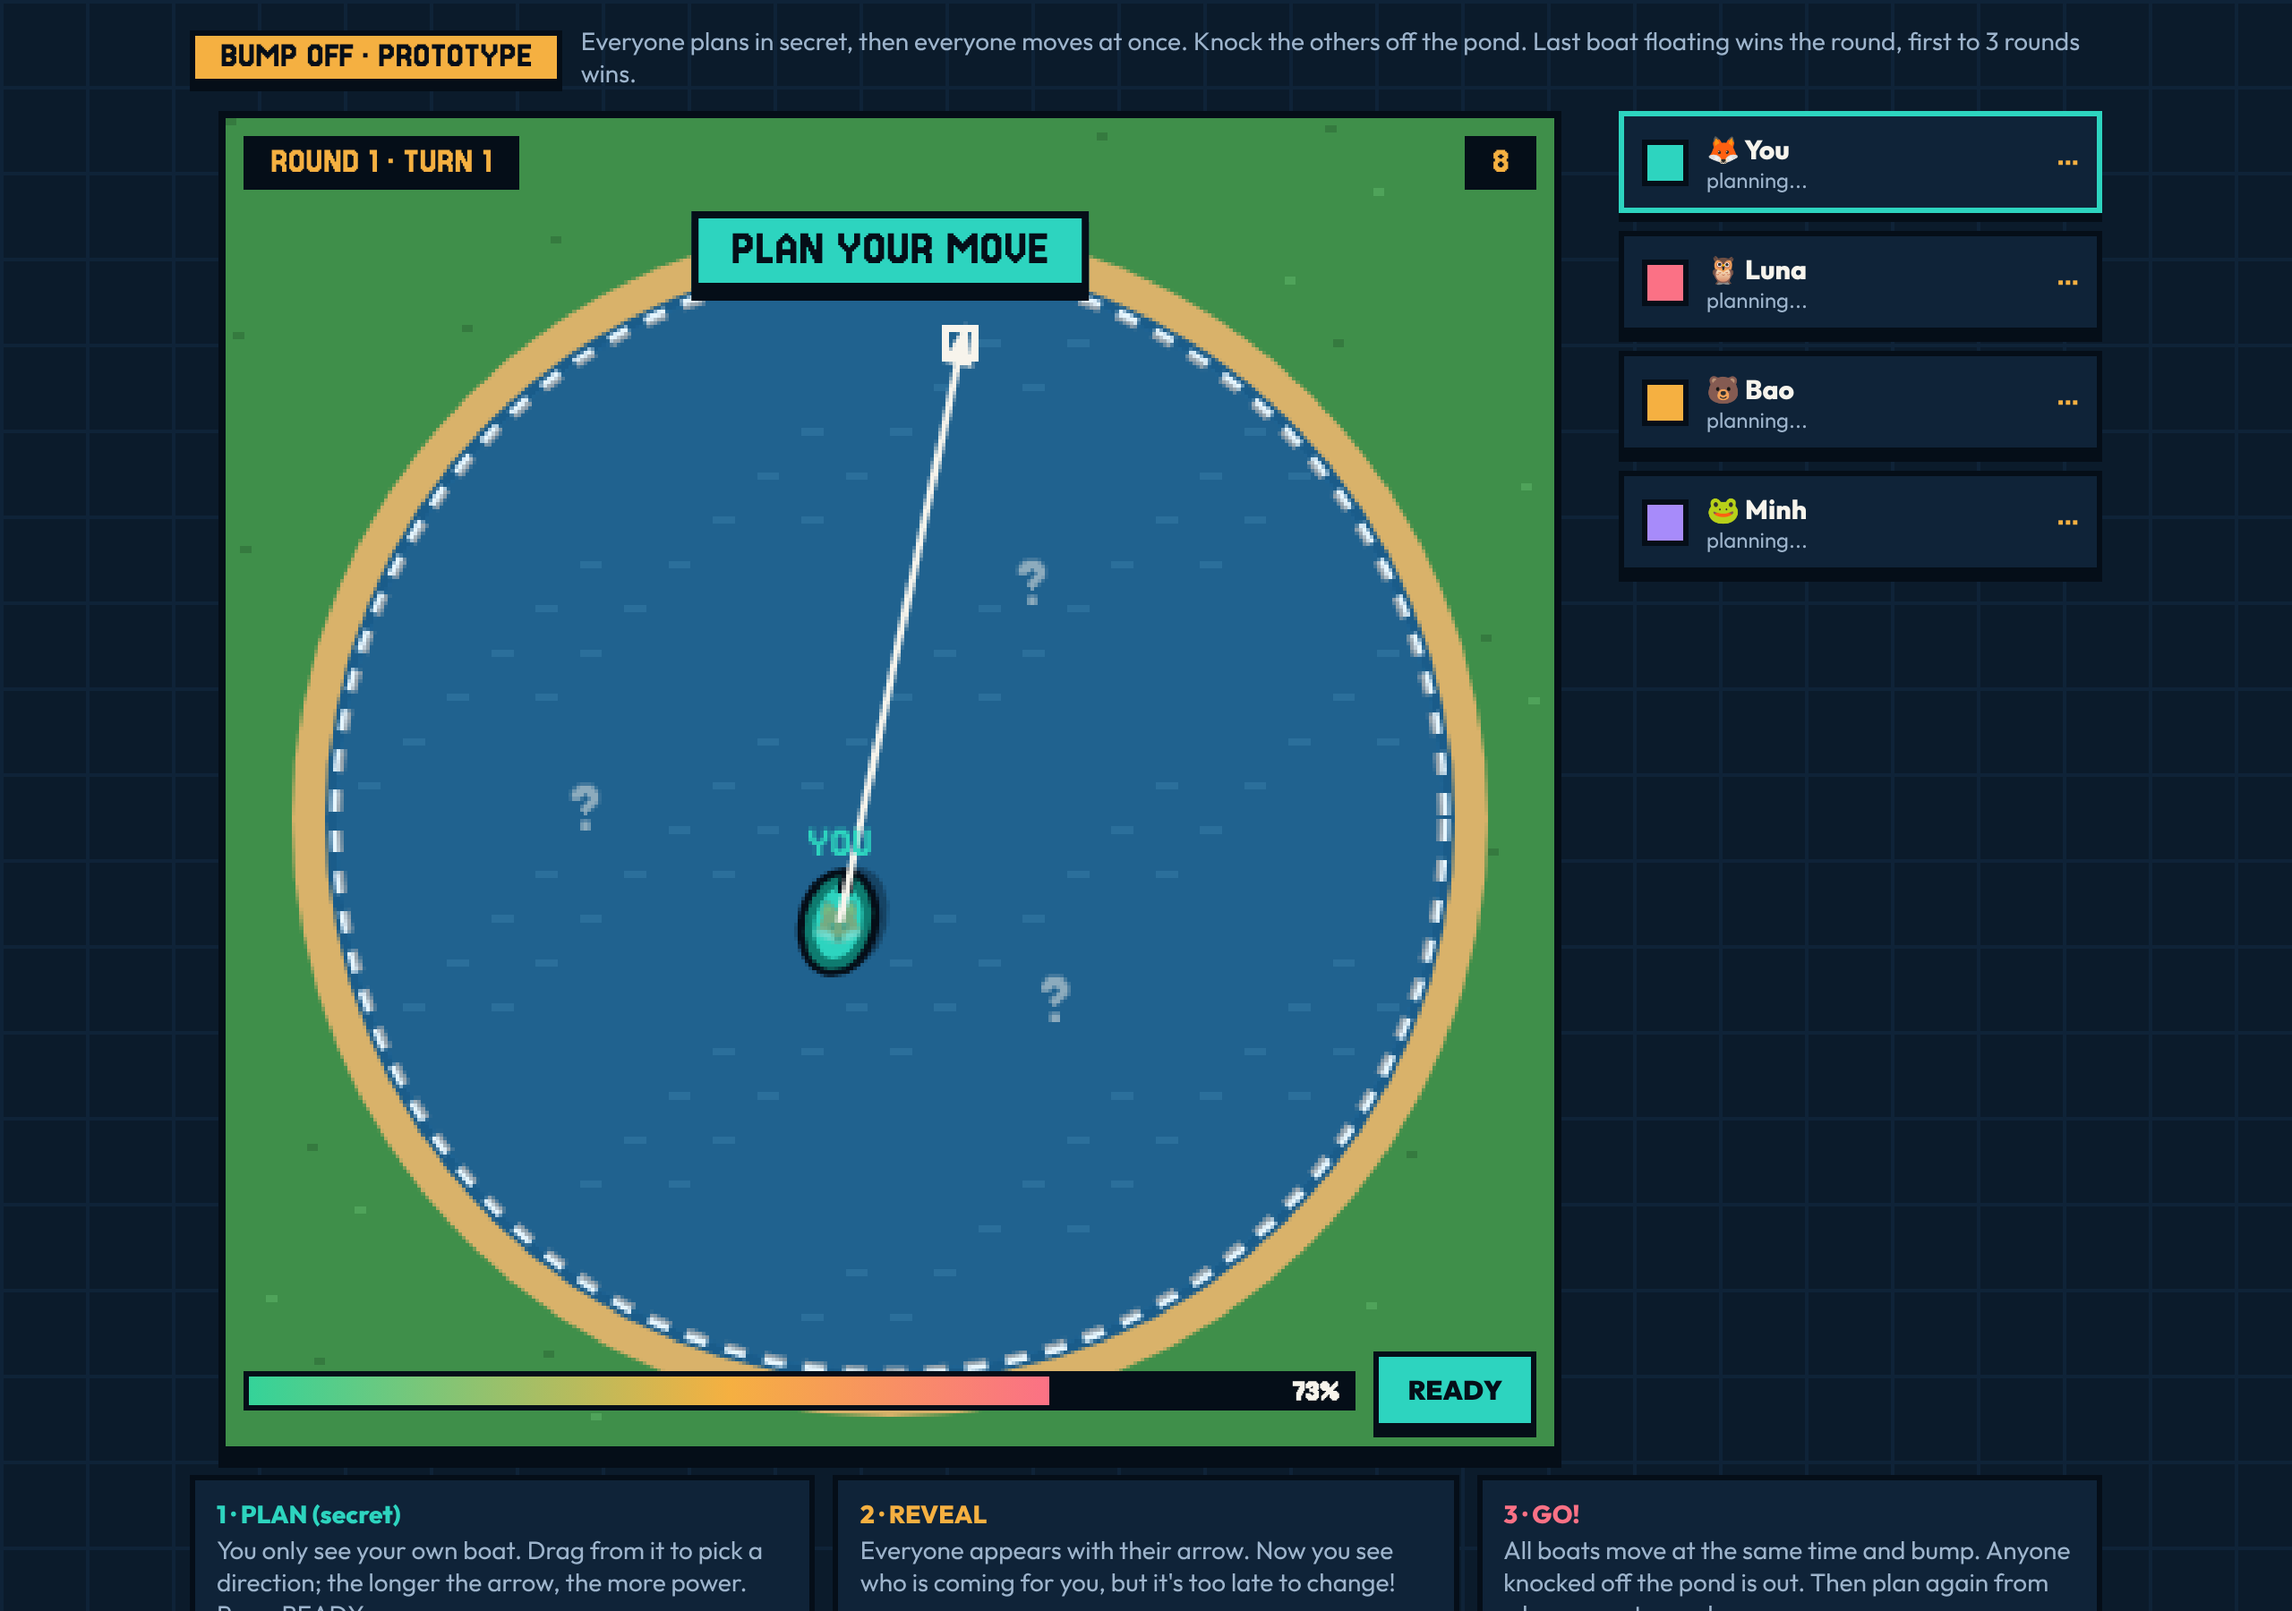
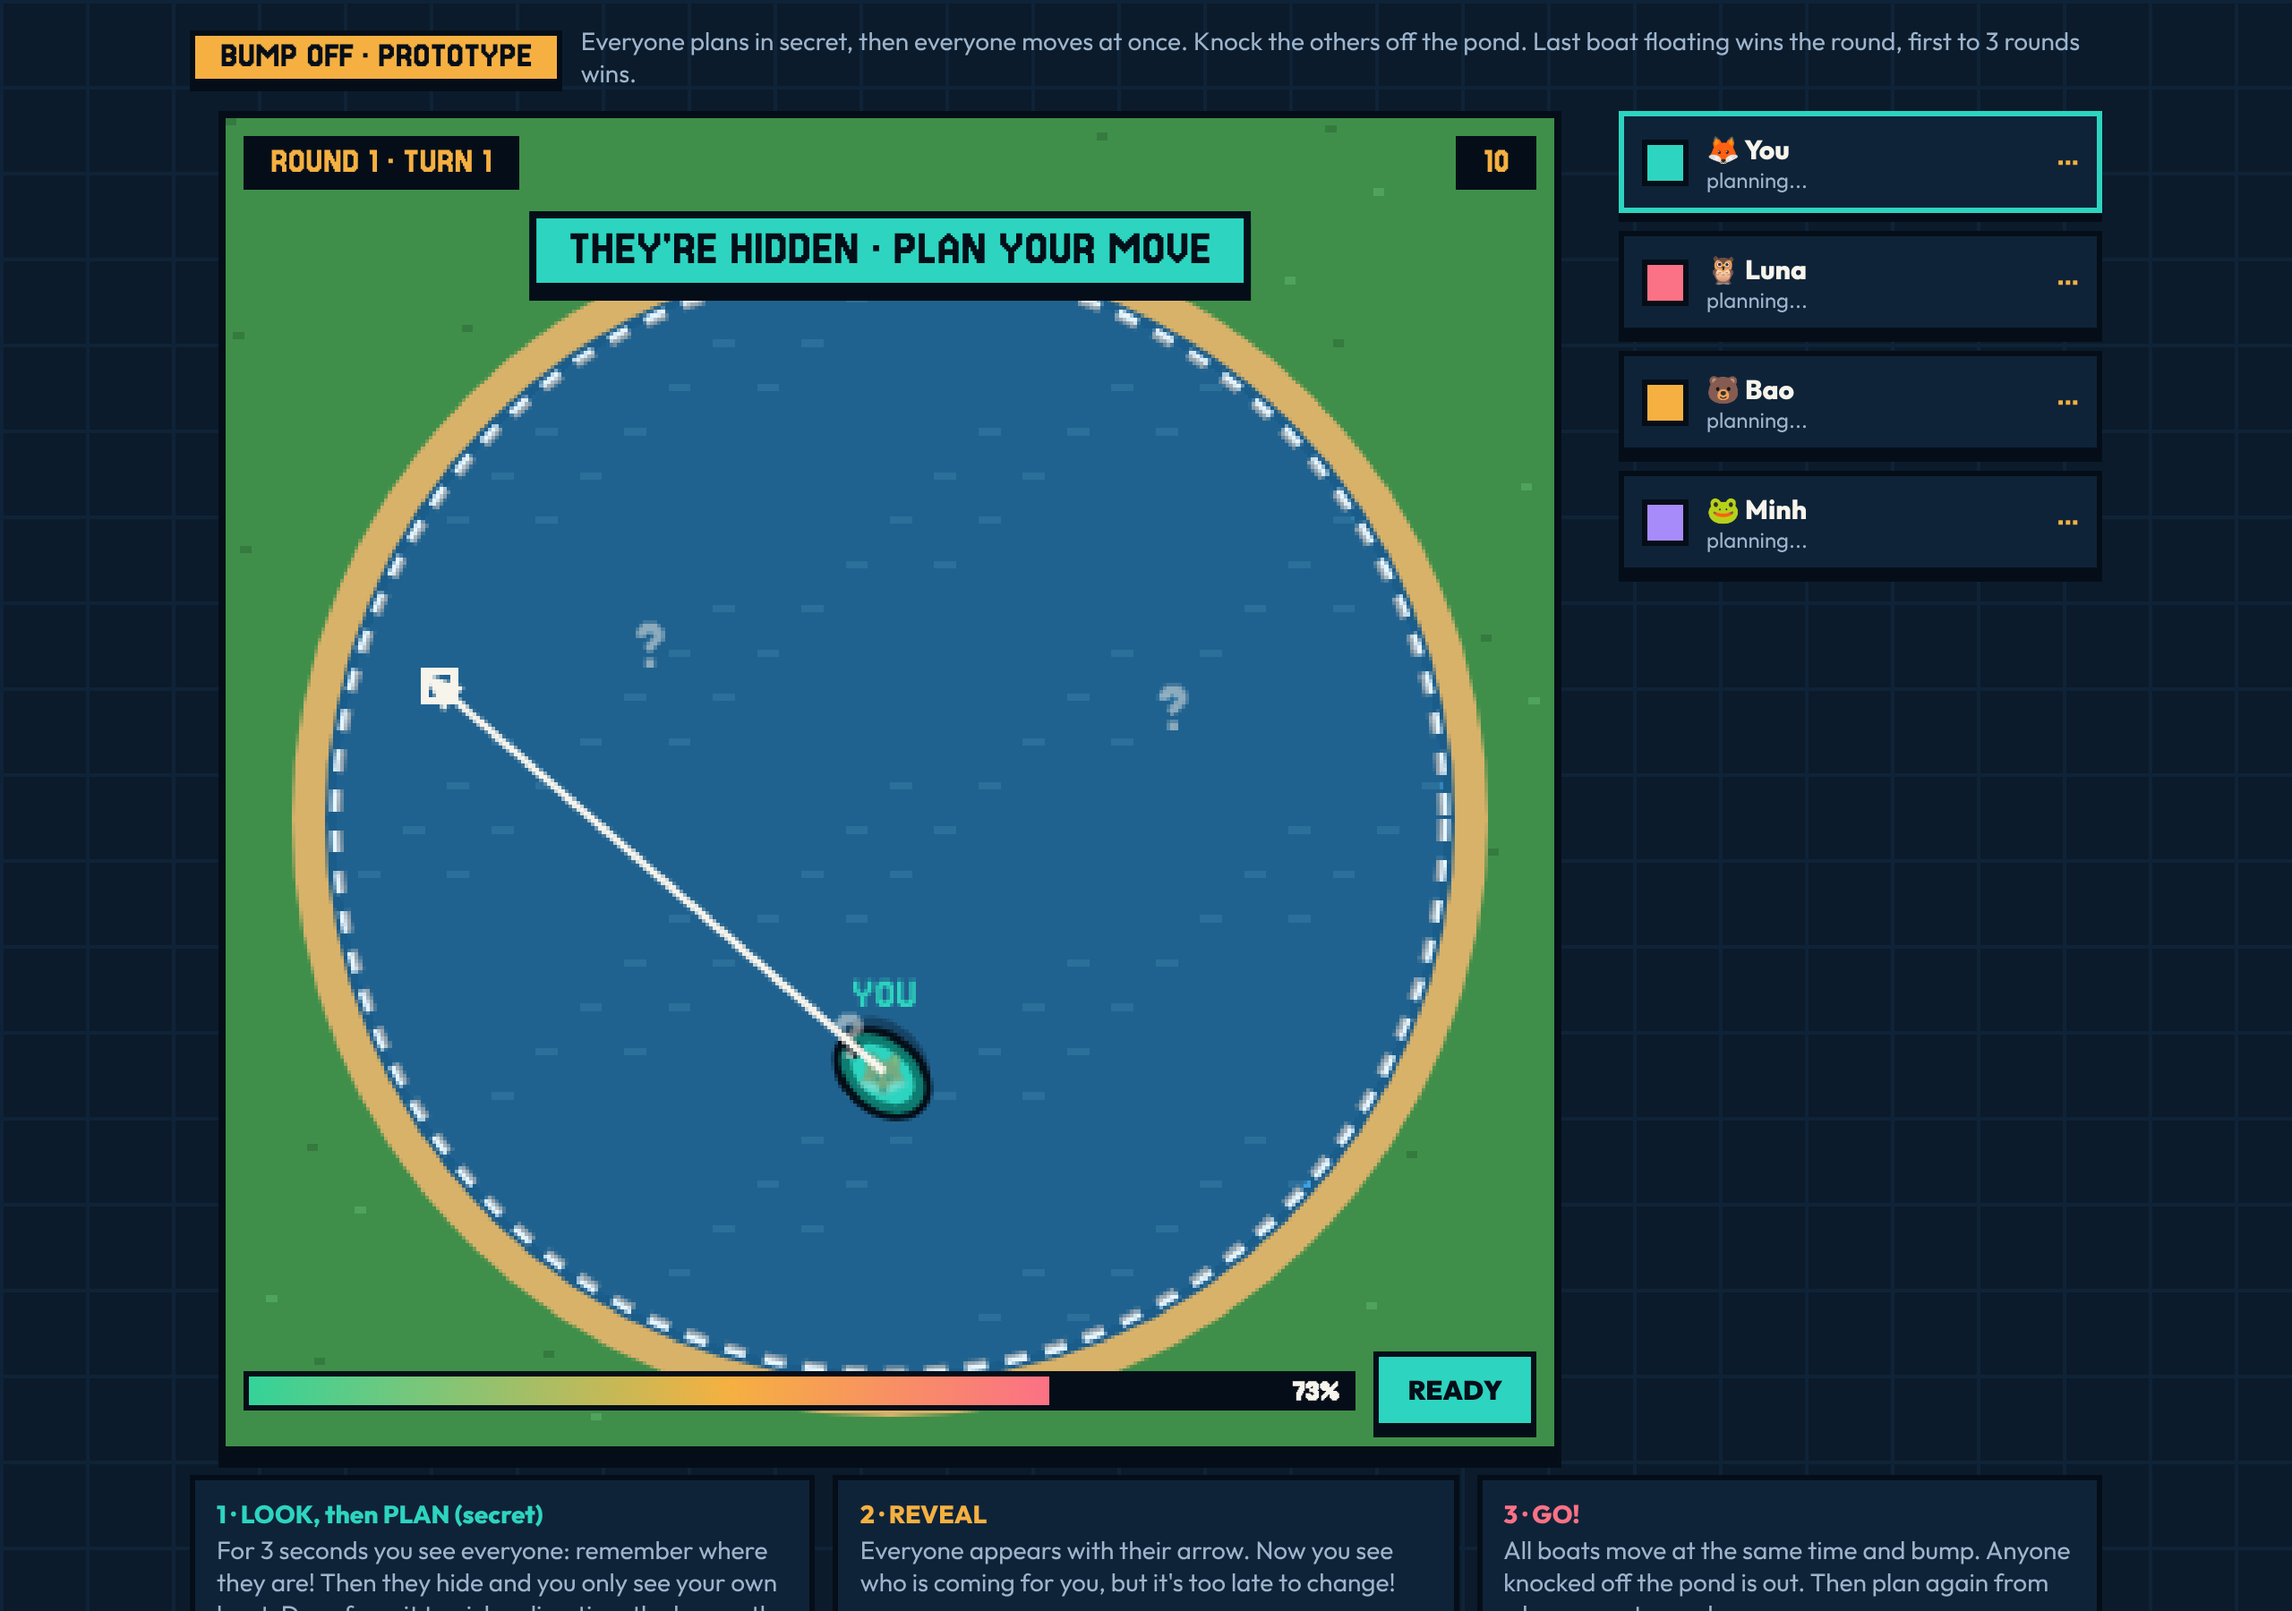
Bump Off prototype: 3 s LOOK phase (everyone visible) before the secret planning each turn
Claude-Session: https://claude.ai/code/session_01NYAz1J5wa1KE5GuxFTgbc4

diff --git a/prototypes/round8/bump-off.html b/prototypes/round8/bump-off.html
@@ -57,7 +57,7 @@ canvas.aim { cursor: crosshair; }
     <div class="side" id="side"></div>
   </div>
   <div class="steps">
-    <div class="s1"><b>1 · PLAN (secret)</b>You only see your own boat. Drag from it to pick a direction; the longer the arrow, the more power. Press READY.</div>
+    <div class="s1"><b>1 · LOOK, then PLAN (secret)</b>For 3 seconds you see everyone: remember where they are! Then they hide and you only see your own boat. Drag from it to pick a direction; the longer the arrow, the more power. Press READY.</div>
     <div class="s2"><b>2 · REVEAL</b>Everyone appears with their arrow. Now you see who is coming for you, but it's too late to change!</div>
     <div class="s3"><b>3 · GO!</b>All boats move at the same time and bump. Anyone knocked off the pond is out. Then plan again from where you stopped.</div>
   </div>
@@ -87,13 +87,19 @@ function newRound() {
     while (tries < 200 && boats.some((b) => Math.hypot(b.x - x, b.y - y) < 60));
     boats.push({ p, x, y, vx: 0, vy: 0, ang: Math.random() * 6.28, alive: true, sink: 9, plan: null, ready: false, readyAt: 0 });
   }
-  R = Rgoal = R0; turn = 1; parts = []; $('over').classList.remove('on'); startSetup();
+  R = Rgoal = R0; turn = 1; parts = []; $('over').classList.remove('on'); startLook();
+}
+const LOOK_SECS = 3;
+function startLook() {
+  phase = 'look'; phaseT = 0; drag = null; for (const b of boats) { b.plan = null; b.ready = !b.alive; }
+  setPhase('reveal', 'LOOK! REMEMBER WHERE EVERYONE IS'); $('bottom').style.display = 'none'; cv.classList.remove('aim');
+  $('round').textContent = `ROUND ${round} · TURN ${turn}`; drawSide(); tone(520, 520, 0.08, 0.05, 'triangle');
 }
 function startSetup() {
   phase = 'setup'; phaseT = 0; drag = null;
   for (const b of boats) { b.plan = null; b.ready = !b.alive; b.readyAt = 1.5 + Math.random() * 6; }
   me().plan = { ang: me().ang, pow: 0 };
-  setPhase('setup', 'PLAN YOUR MOVE'); $('bottom').style.display = 'flex'; $('ready').disabled = false; $('ready').textContent = 'READY';
+  setPhase('setup', 'THEY\'RE HIDDEN · PLAN YOUR MOVE'); $('bottom').style.display = 'flex'; $('ready').disabled = false; $('ready').textContent = 'READY';
   $('round').textContent = `ROUND ${round} · TURN ${turn}`; cv.classList.add('aim'); drawSide(); showPow();
 }
 const me = () => boats.find((b) => b.p.me);
@@ -125,7 +131,10 @@ const reach = (pow) => pow * VMAX / DRAG;
 // ---------- the turn ----------
 function update(dt) {
   phaseT += dt;
-  if (phase === 'setup') {
+  if (phase === 'look') {
+    const left = Math.max(0, LOOK_SECS - phaseT); $('clock').textContent = Math.ceil(left);
+    if (left <= 0) { startSetup(); tone(300, 150, 0.2, 0.05, 'triangle'); }
+  } else if (phase === 'setup') {
     const left = Math.max(0, PLAN_SECS - phaseT); $('clock').textContent = Math.ceil(left);
     let changed = false; for (const b of boats) if (!b.p.me && b.alive && !b.ready && phaseT > b.readyAt) { b.ready = true; changed = true; }
     if (changed) drawSide();
@@ -176,7 +185,7 @@ function endTurn() {
   const live = boats.filter((b) => b.alive);
   if (live.length <= 1) return endRound(live[0]);
   turn++; if (turn > 2) Rgoal = Math.max(70, Rgoal * 0.9);           // the pond shrinks a little every turn after the 2nd
-  phase = 'wait'; setTimeout(() => { if (phase === 'wait') startSetup(); }, 600);
+  phase = 'wait'; setTimeout(() => { if (phase === 'wait') startLook(); }, 600);
 }
 function endRound(w) {
   phase = 'end'; setPhase('', ''); $('bottom').style.display = 'none'; if (w) w.p.wins++;
